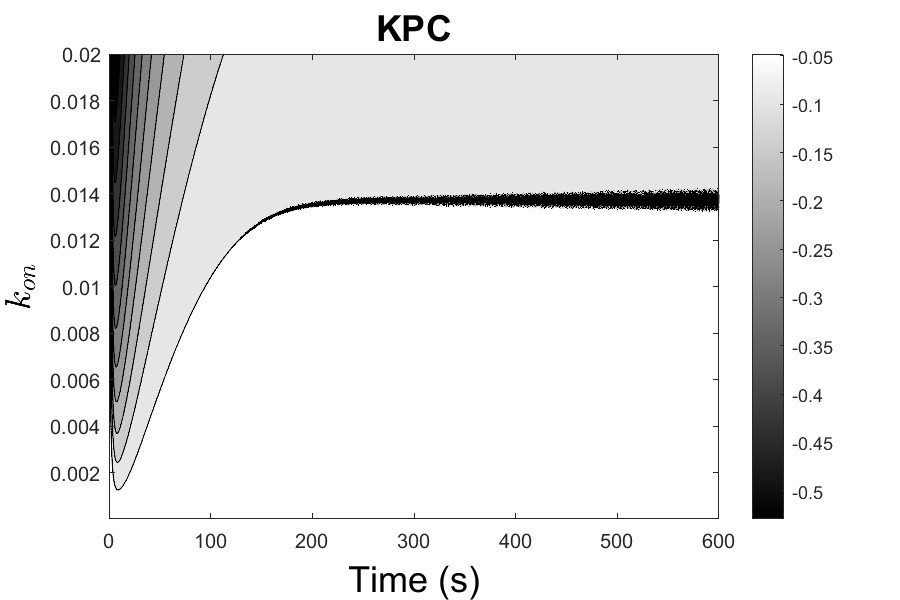
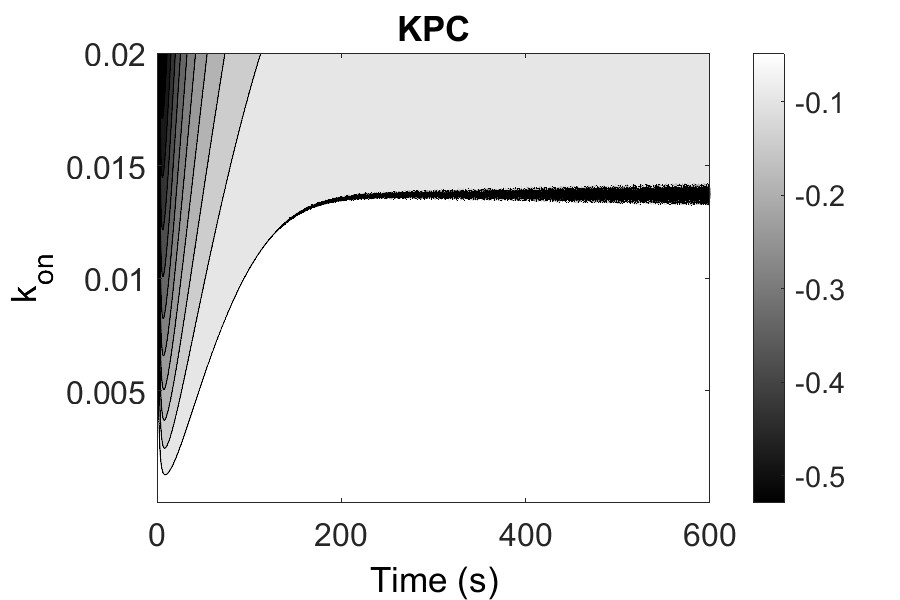
a

diff --git a/Leveraging mathematical models P2/Sensitivity/Sensitivity Analysis/OccupSensitivity.m b/Leveraging mathematical models P2/Sensitivity/Sensitivity Analysis/OccupSensitivity.m
@@ -12,65 +12,66 @@ clear
 
 %    --------------- UNBINDING RATE -----------------------------
 % Vector de valores de koff
-koffVect = 0.001:0.001:1;
-
-% Resultados con el número de filas de koff y en cada columna el instante
-% temporal
-results_matrix = zeros(length(koffVect), length(solution{1}(:, 1))); 
-for i = 1:length(koffVect)
-
-    p = complex([5e-5, koffVect(i)], 0);
-
-    solution = sensitivity(x0, p, d, tspan);
-
-    % COJO LA RESPUESTA QUE ME INTERESA:
-    SolResponse = solution{1}(:, 3); 
-    % Normalización de la respuesta
-    newSol = abs((SolResponse .* koffVect(i)) ./ solution{1}(:, 1)); 
-
-    % En la fila que define un valor de koff
-    results_matrix(i, :) = newSol;
-end
-
-
-
-figure('Position', [100, 100, 600, 400]);
-contourf(tspan, koffVect, results_matrix, 10, 'LineColor', 'k');
-colormap(gray);
-colorbar;
-xlabel('Time (s)', 'FontSize', 18, 'Color', 'k', 'FontWeight', 'normal');
-%ylabel('$k_{off}$', 'FontSize', 18, 'Color', 'k', 'FontWeight', 'normal', 'Interpreter', 'latex');
-ylabel('k_{off}', 'FontSize', 18, 'Color', 'k', 'FontWeight', 'normal', 'Interpreter', 'tex');
-title('Occ', 'FontSize', 18, 'FontWeight', 'bold', 'Color', 'k');
-set(gca, 'YDir', 'normal', 'FontSize', 16, 'YScale', 'log');
-hold on
-
-save('Occ_koff.mat','tspan','koffVect','results_matrix');
-
-    % --------------- BINDING RATE -----------------------------
-% Vector de valores de koff
-% konVect = 4e-6:1e-6:2e-2;
+% koffVect = 0.001:0.001:1;
 % 
 % % Resultados con el número de filas de koff y en cada columna el instante
 % % temporal
-% results_matrix = zeros(length(konVect), length(solution{1}(:, 1))); 
-% for i = 1:length(konVect)
+% results_matrix = zeros(length(koffVect), length(solution{1}(:, 1))); 
+% for i = 1:length(koffVect)
 % 
-%     p = complex([konVect(i), 0.01], 0);
+%     p = complex([5e-5, koffVect(i)], 0);
 % 
 %     solution = sensitivity(x0, p, d, tspan);
 % 
 %     % COJO LA RESPUESTA QUE ME INTERESA:
-%     SolResponse = solution{1}(:, 2); 
+%     SolResponse = solution{1}(:, 3); 
 %     % Normalización de la respuesta
-%     newSol = abs((SolResponse .* konVect(i)) ./ solution{1}(:, 1)); 
+%     newSol = abs((SolResponse .* koffVect(i)) ./ solution{1}(:, 1)); 
 % 
 %     % En la fila que define un valor de koff
 %     results_matrix(i, :) = newSol;
 % end
 % 
-% results_matrix1 = log10(results_matrix);
 % 
+% 
+% figure('Position', [100, 100, 600, 400]);
+% contourf(tspan, koffVect, results_matrix, 10, 'LineColor', 'k');
+% colormap(gray);
+% colorbar;
+% xlabel('Time (s)', 'FontSize', 18, 'Color', 'k', 'FontWeight', 'normal');
+% %ylabel('$k_{off}$', 'FontSize', 18, 'Color', 'k', 'FontWeight', 'normal', 'Interpreter', 'latex');
+% ylabel('k_{off}', 'FontSize', 18, 'Color', 'k', 'FontWeight', 'normal', 'Interpreter', 'tex');
+% title('Occ', 'FontSize', 18, 'FontWeight', 'bold', 'Color', 'k');
+% set(gca, 'YDir', 'normal', 'FontSize', 16, 'YScale', 'log');
+% hold on
+% 
+% save('Occ_koff.mat','tspan','koffVect','results_matrix');
+
+    % --------------- BINDING RATE -----------------------------
+% Vector de valores de koff
+konVect = 4e-6:1e-6:2e-2;
+
+% Resultados con el número de filas de koff y en cada columna el instante
+% temporal
+results_matrix = zeros(length(konVect), length(solution{1}(:, 1))); 
+for i = 1:length(konVect)
+
+    p = complex([konVect(i), 0.01], 0);
+
+    solution = sensitivity(x0, p, d, tspan);
+
+    % COJO LA RESPUESTA QUE ME INTERESA:
+    SolResponse = solution{1}(:, 2); 
+    % Normalización de la respuesta
+    newSol = abs((SolResponse .* konVect(i)) ./ solution{1}(:, 1)); 
+
+    % En la fila que define un valor de koff
+    results_matrix(i, :) = newSol;
+end
+
+results_matrix1 = log10(results_matrix);
+save('Occ_kon.mat','tspan','konVect','results_matrix');
+
 % figure('Position', [100, 100, 600, 400]);
 % contourf(tspan, konVect, results_matrix1, 10, 'LineColor', 'k');
 % colormap(gray);
@@ -80,9 +81,18 @@ save('Occ_koff.mat','tspan','koffVect','results_matrix');
 % title('Occ.', 'FontSize', 18, 'FontWeight', 'bold', 'Color', 'k');
 % set(gca, 'YDir', 'normal');
 % hold on
-% 
-% save('Occ_kon.mat','tspan','konVect','results_matrix');
 
+figure('Position', [100, 100, 600, 400]);
+contourf(tspan, konVect, results_matrix, 10, 'LineColor', 'k');
+colormap(gray);
+colorbar;
+xlabel('Time (s)', 'FontSize', 18, 'Color', 'k', 'FontWeight', 'normal');
+%ylabel('$k_{off}$', 'FontSize', 18, 'Color', 'k', 'FontWeight', 'normal', 'Interpreter', 'latex');
+ylabel('$k_{on}$', 'FontSize', 18, 'Color', 'k', 'FontWeight', 'normal', 'Interpreter', 'latex');
+title('Occ', 'FontSize', 18, 'FontWeight', 'bold', 'Color', 'k');
+set(gca, 'YDir', 'normal', 'FontSize', 16, 'YScale', 'log');
+set(gca, 'YDir', 'normal', 'FontSize', 16);
+hold on
 
     % --------------- FORWARD RATE -----------------------------
 % % Vector de valores de koff

diff --git a/Leveraging mathematical models P2/Sensitivity/Sensitivity Analysis/KPCSensitivity.m b/Leveraging mathematical models P2/Sensitivity/Sensitivity Analysis/KPCSensitivity.m
@@ -116,14 +116,17 @@ hold on
 % % %          'LineWidth', 0.5);  
 % % hold on
 % 
+
+results_matrix = log10(results_matrix);
+
 figure('Position', [100, 100, 600, 400]);
 contourf(tspan, konVect, results_matrix, 10, 'LineColor', 'k');
 colormap(gray);  
 colorbar;
 xlabel('Time (s)', 'FontSize', 18, 'Color', 'k', 'FontWeight', 'normal');
-ylabel('Binding rate', 'FontSize', 18, 'Color', 'k', 'FontWeight', 'normal');
+ylabel('k_{on}', 'FontSize', 18, 'Color', 'k', 'FontWeight', 'normal', 'Interpreter', 'tex');
 title('KPC', 'FontSize', 18, 'FontWeight', 'bold', 'Color', 'k');
-set(gca, 'YDir', 'normal');
+set(gca, 'YDir', 'normal', 'FontSize', 16);
 hold on
 
 figure('Position', [100, 100, 600, 400]);
